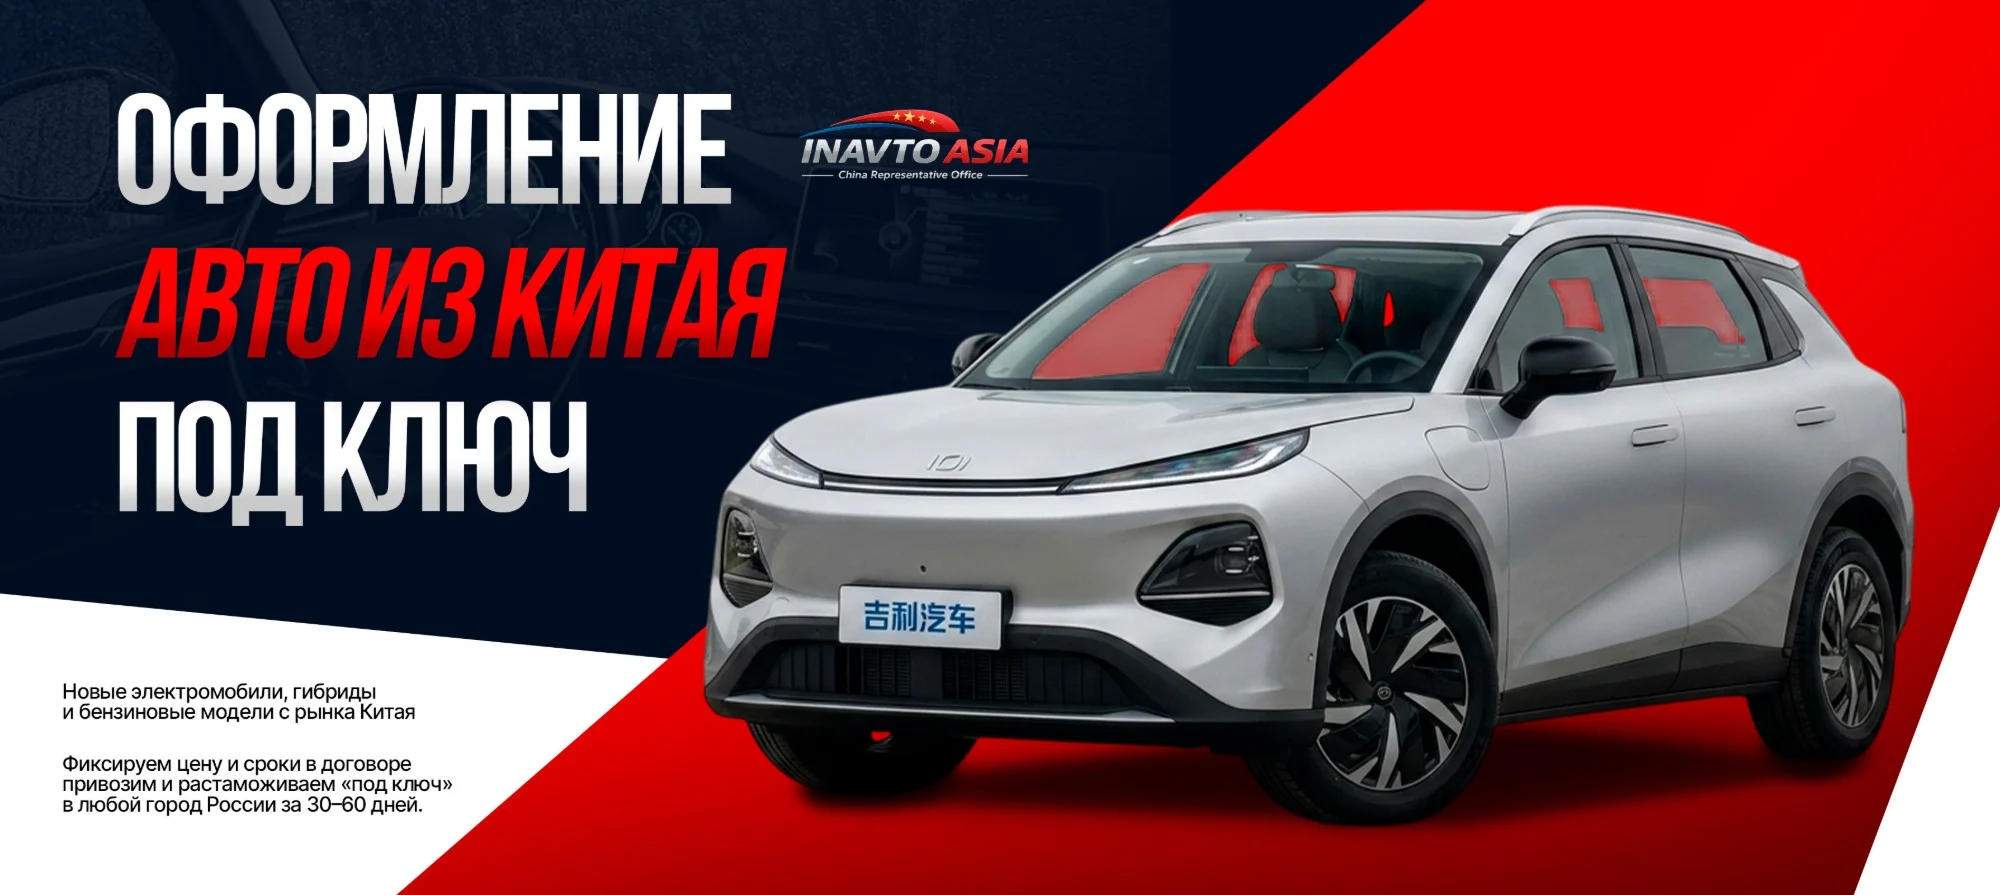
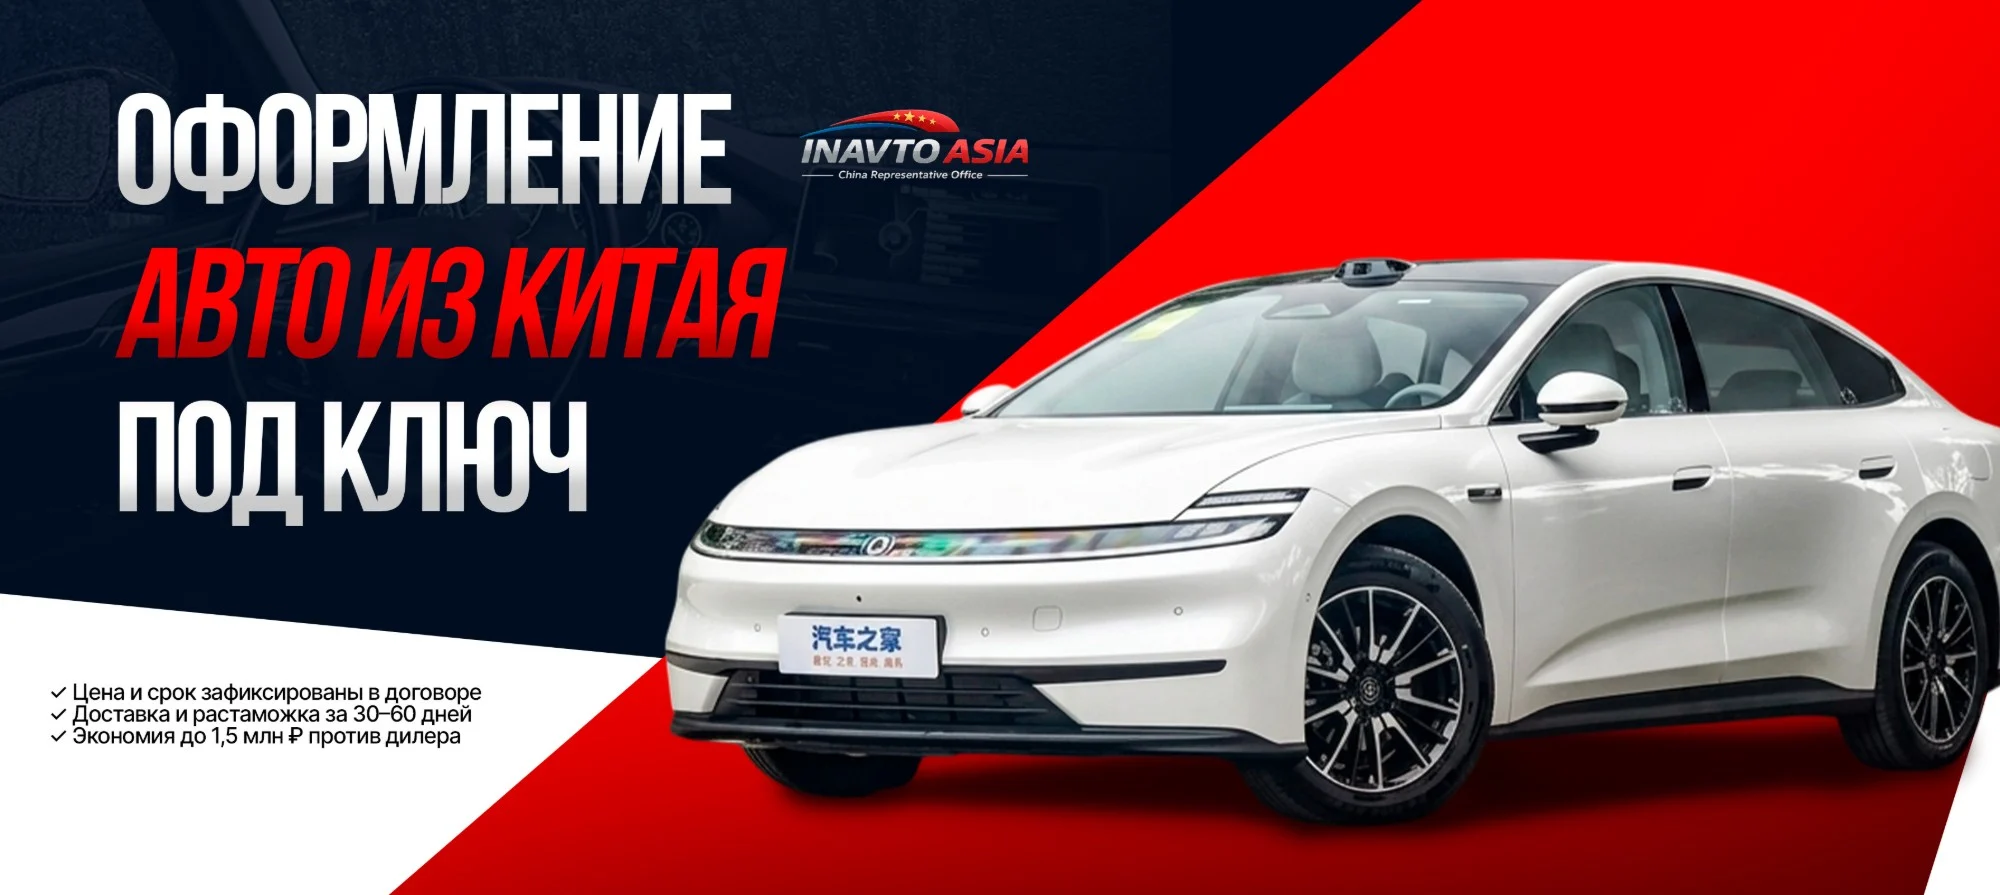
Главная: обновлён баннер (белый седан + преимущества на макете)
Новая версия баннера от владельца: те же 2000×895, WebP 114 КБ.
Версия кэша поднята до ?v=3 — посетители сразу увидят новый.

Claude-Session: https://claude.ai/code/session_01AkowpXNQVyaw5mnMNo7cHx

diff --git a/site/index.html b/site/index.html
@@ -41,7 +41,7 @@
   <!-- HERO: баннер во всю ширину -->
   <h1 class="sr-only">Оформление авто из Китая под ключ — INAVTO ASIA</h1>
   <section class="hero-banner">
-    <img class="hero-banner-img" src="img/hero-banner.webp?v=2" alt="Оформление авто из Китая под ключ — INAVTO ASIA. Новые электромобили, гибриды и бензиновые модели с рынка Китая, доставка в любой город России за 30–60 дней" fetchpriority="high">
+    <img class="hero-banner-img" src="img/hero-banner.webp?v=3" alt="Оформление авто из Китая под ключ — INAVTO ASIA. Новые электромобили, гибриды и бензиновые модели с рынка Китая, доставка в любой город России за 30–60 дней" fetchpriority="high">
     <div class="container">
       <div class="hero-actions">
         <button class="btn btn-red" data-quiz-open>Подобрать автомобиль</button>
